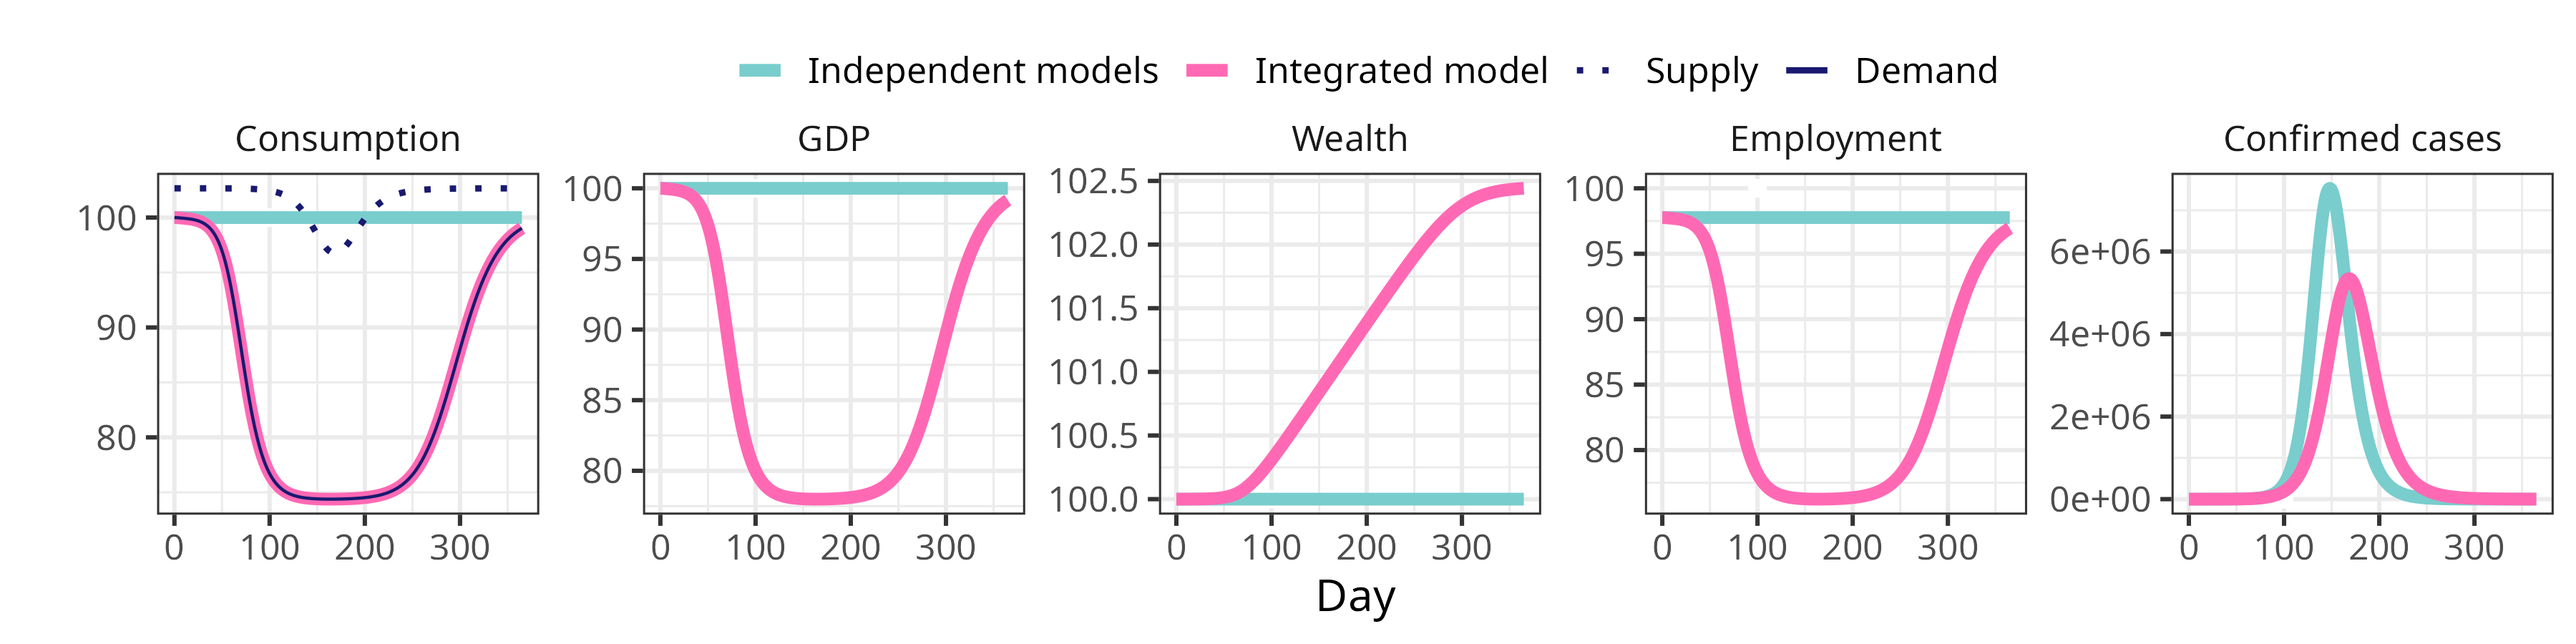
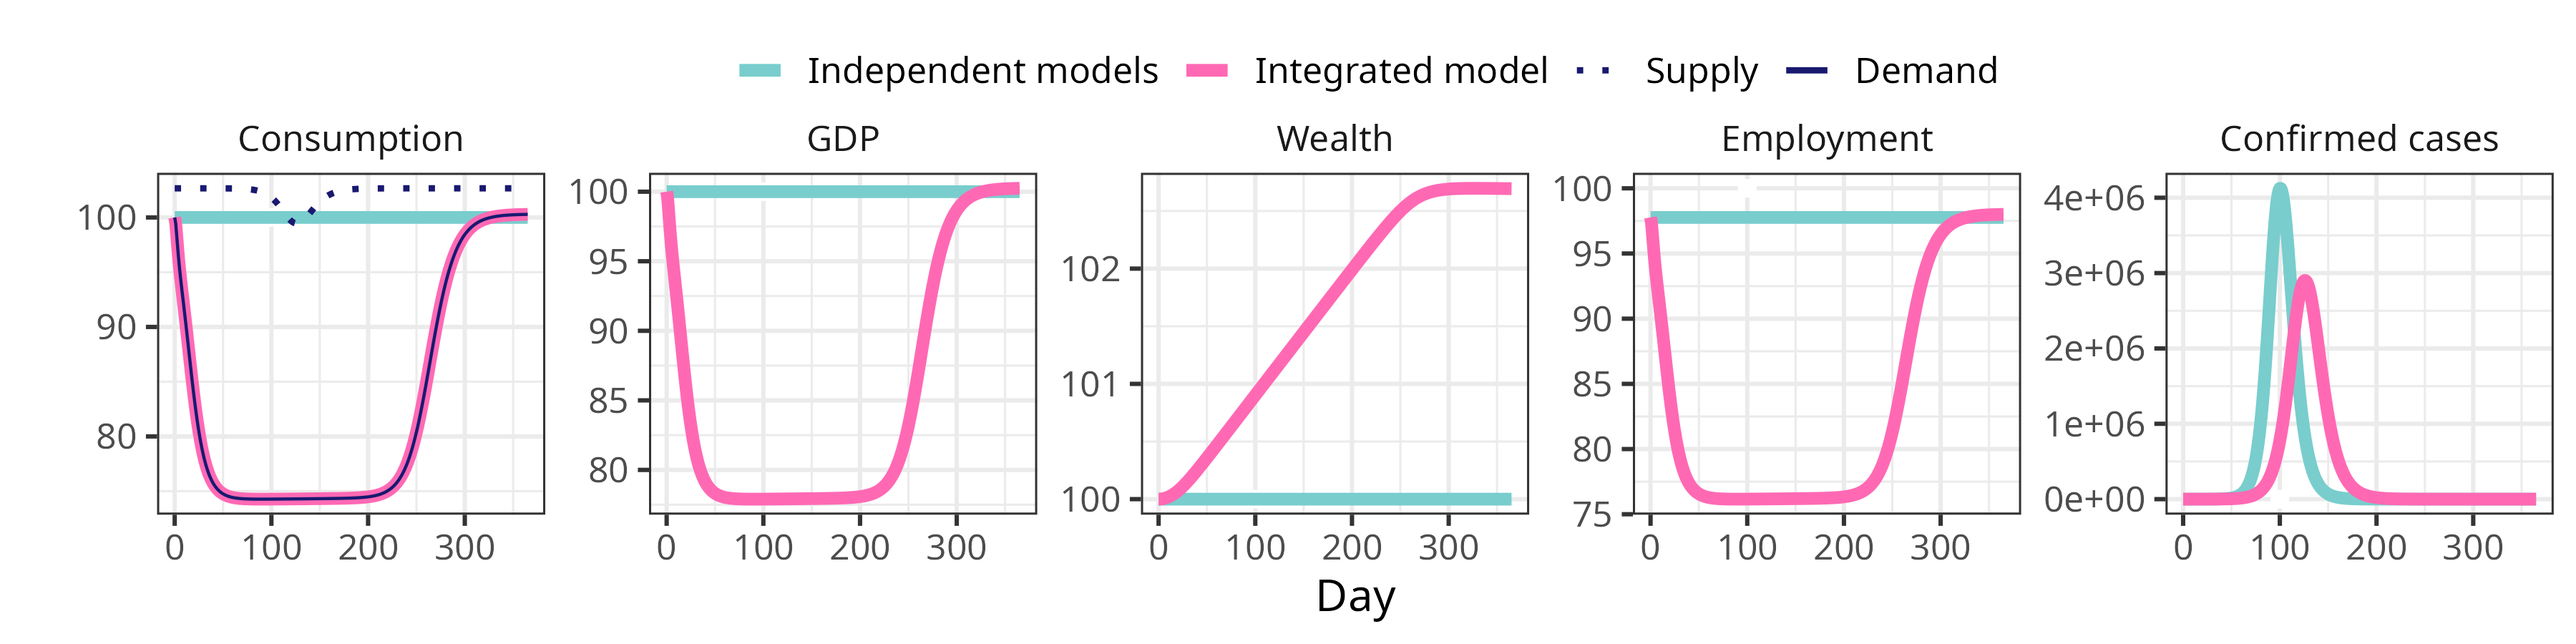
updates

diff --git a/README.md b/README.md
@@ -14,13 +14,13 @@ epi-SFC models
     equations](#21-ordinary-differential-equations)
   - [2.2 Disease state transitions](#22-disease-state-transitions)
 
-**To run the code**, type
+To **run the code**, type
 
 ``` r
 source('R_script.R')
 ```
 
-which will load also the files `data_file.Rds`, which contains stored
+This script will load the files `data_file.Rds`, which contains stored
 objects for parametrising the model; `functions.R`, which contains the
 functions for solving the epidemiological model with odin and plotting
 the results; `data_functions.R`, which contains functions for processing
